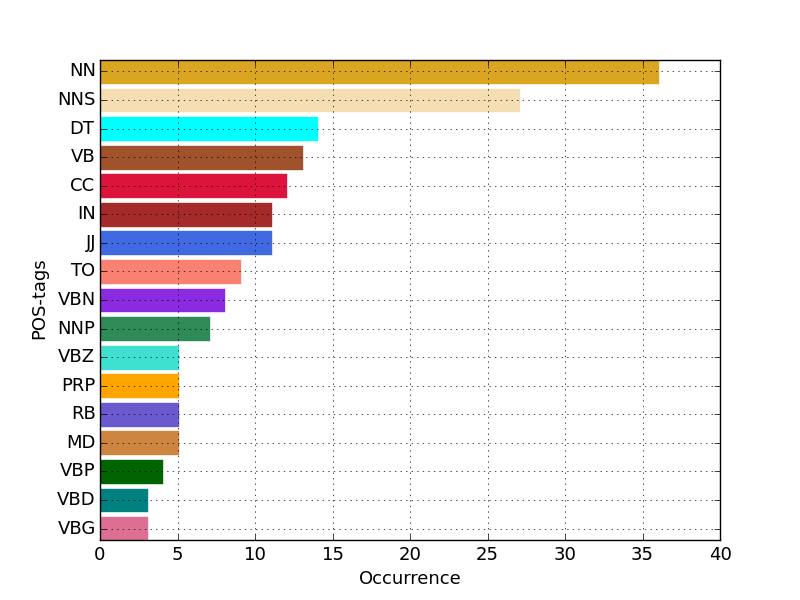
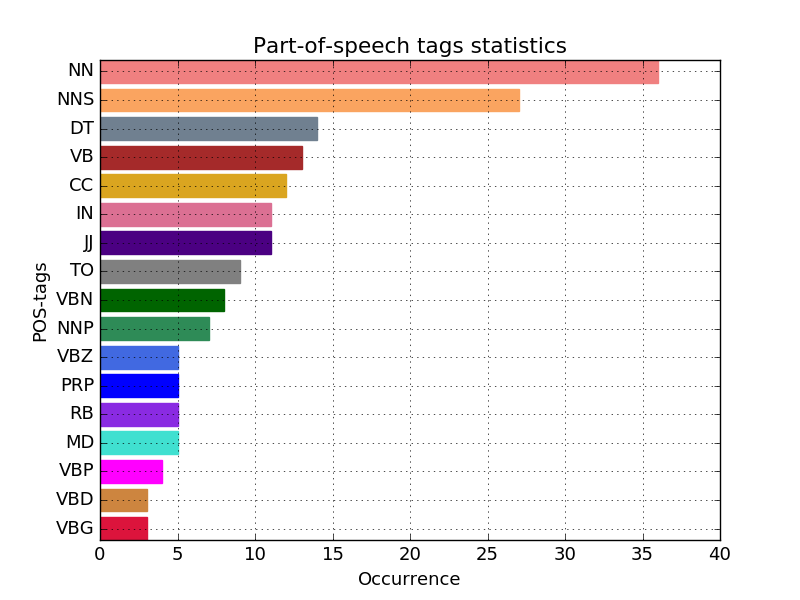
added 'Process' button, refactored code, added ngram calculation

Changed region(s): [[0.0312, 0.06, 0.8438, 0.9], [0.4375, 0.96, 0.5938, 0.99], [0.875, 0.9, 0.9062, 0.93]]

diff --git a/model.py b/model.py
@@ -215,16 +215,36 @@ def get_stats(text):
 def get_ngrams(txtblob_obj):
     """
     Calculate word and ngram counts for Graphs option.
-    Calculate top 5 rare words.
     Calculate top 5 frequent words.
     Calculate top 5 2-grams
     Calculate top 5 3-grams
 
     Args:
-        *textblob_obj* (Blob) -- object containing parse results
+        *txtblob_obj* (Blob) -- object containing parse results
+
+    Returns:
+        |*most5* (list) -- a list of 5 most frequent words
+        |*ngram2* (list) -- a list of 5 most frequent 2-grams
+        |*ngram3* (list) -- a list of 5 most frequent 3-grams
 
     """
-    pass
+    counter = Counter(txtblob_obj[0].words)
+    counts_dic = od(counter.most_common())
+    tags_dic = dict(txtblob_obj[0].tags)
+    content = ('JJ', 'JJR', 'JJS', 'NN', 'NNS', 'NNP', 'NNPS', 'RB', 'RBR',
+               'RBS', 'VB', 'VBD', 'VBG', 'VBN', 'VBP', 'VBZ')
+    # get 5 most frequent words
+    most5 = [(k, counts_dic[k]) for k in counts_dic if tags_dic.get(k) in content][:5]
+
+    ngram2_cnt = Counter([(n[0], n[1]) for n
+                         in txtblob_obj[0].ngrams(2)])
+    ngram3_cnt = Counter([(n[0], n[1], n[2]) for n
+                         in txtblob_obj[0].ngrams(3)])
+
+    ngram2 = [(n[0], ngram2_cnt[n[0]]) for n in ngram2_cnt.most_common(5)]
+    ngram3 = [(n[0], ngram3_cnt[n[0]]) for n in ngram3_cnt.most_common(5)]
+
+    return most5, ngram2, ngram3
 
 
 def plot_tags(tags_dic, save_fname):
@@ -244,6 +264,7 @@ def plot_tags(tags_dic, save_fname):
     # create POS-tags distribution plot
     odd = od(sorted([(k, v) for k, v in tags_dic.items()], key=lambda x: x[1]))
     bars = plt.barh(range(len(odd)), odd.values(), align='center')
+    plt.title('Part-of-speech tags statistics')
     plt.yticks(range(len(odd)), odd.keys())
     plt.xlabel('Occurrence')
     plt.ylabel('POS-tags')
@@ -267,6 +288,7 @@ def plot_tags(tags_dic, save_fname):
     labels = ['functional words', 'content words']
     sizes = [fratio, cratio]
     pie_colors = ['salmon', 'royalblue']
+    plt.title('Functional vs content words statistics')
     plt.pie(sizes, labels=labels, colors=pie_colors, autopct='%1.1f%%',
             shadow=True, startangle=90)
     # Set aspect ratio to be equal so that pie is drawn as a circle.
